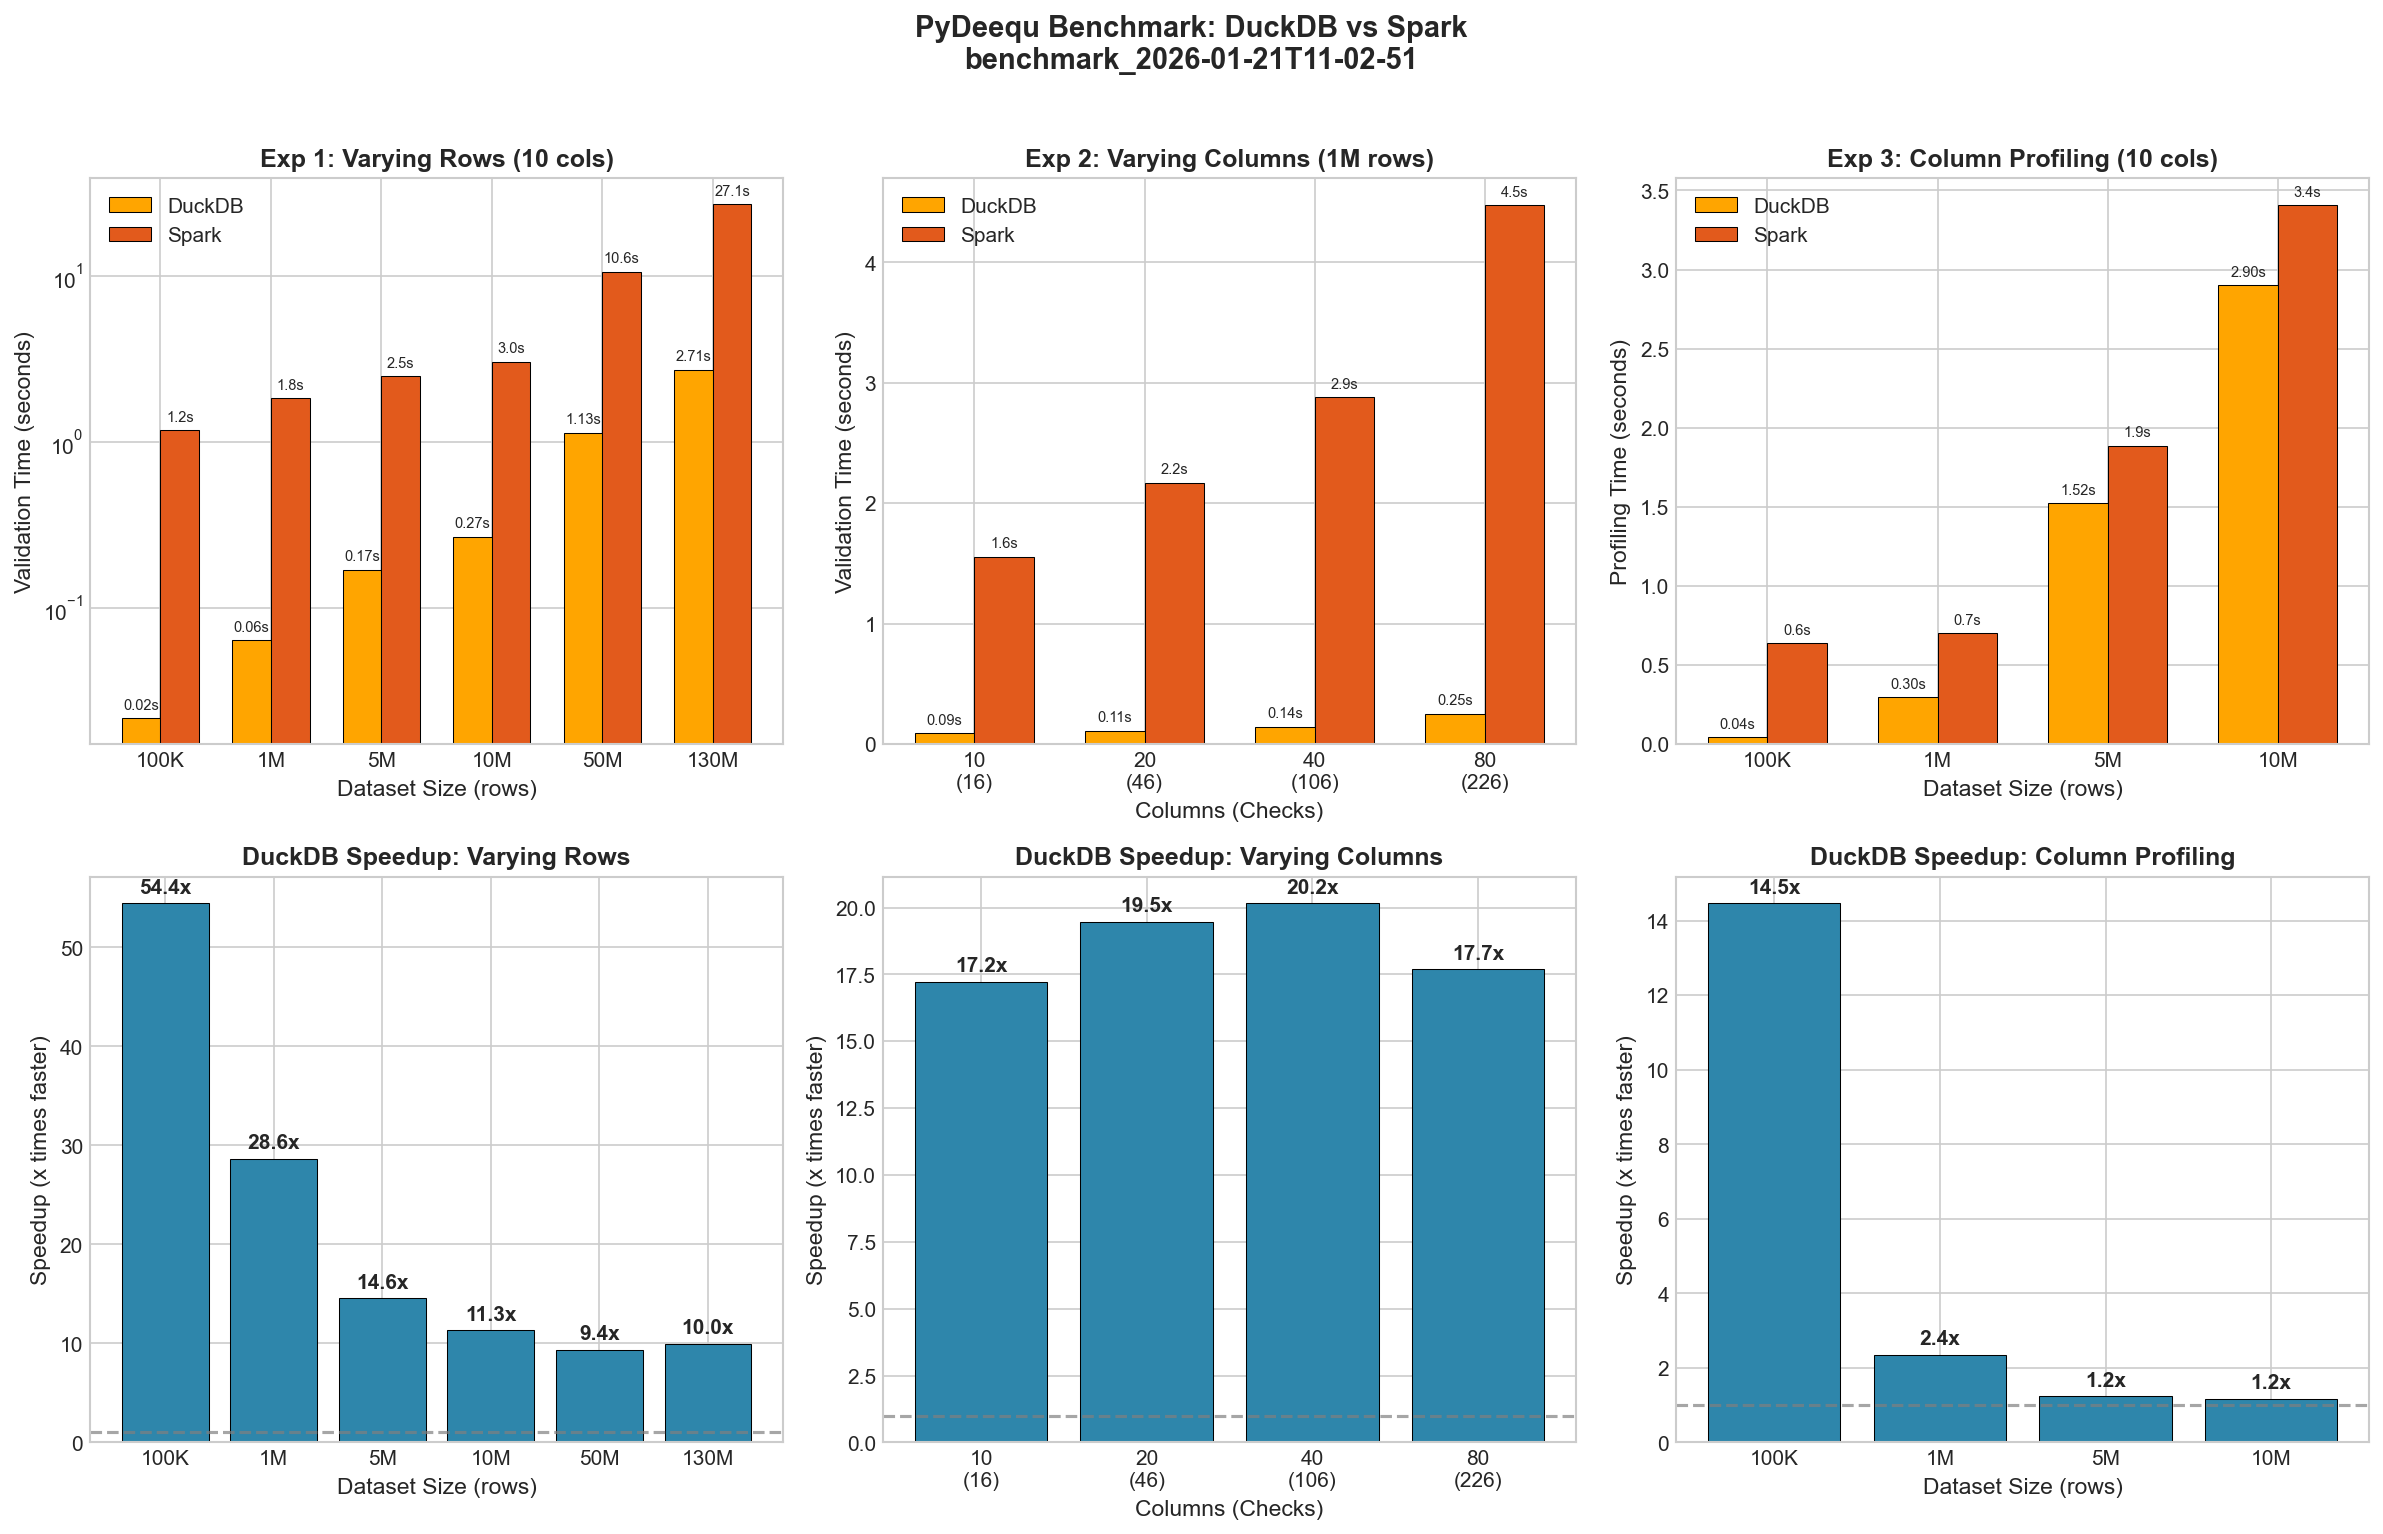
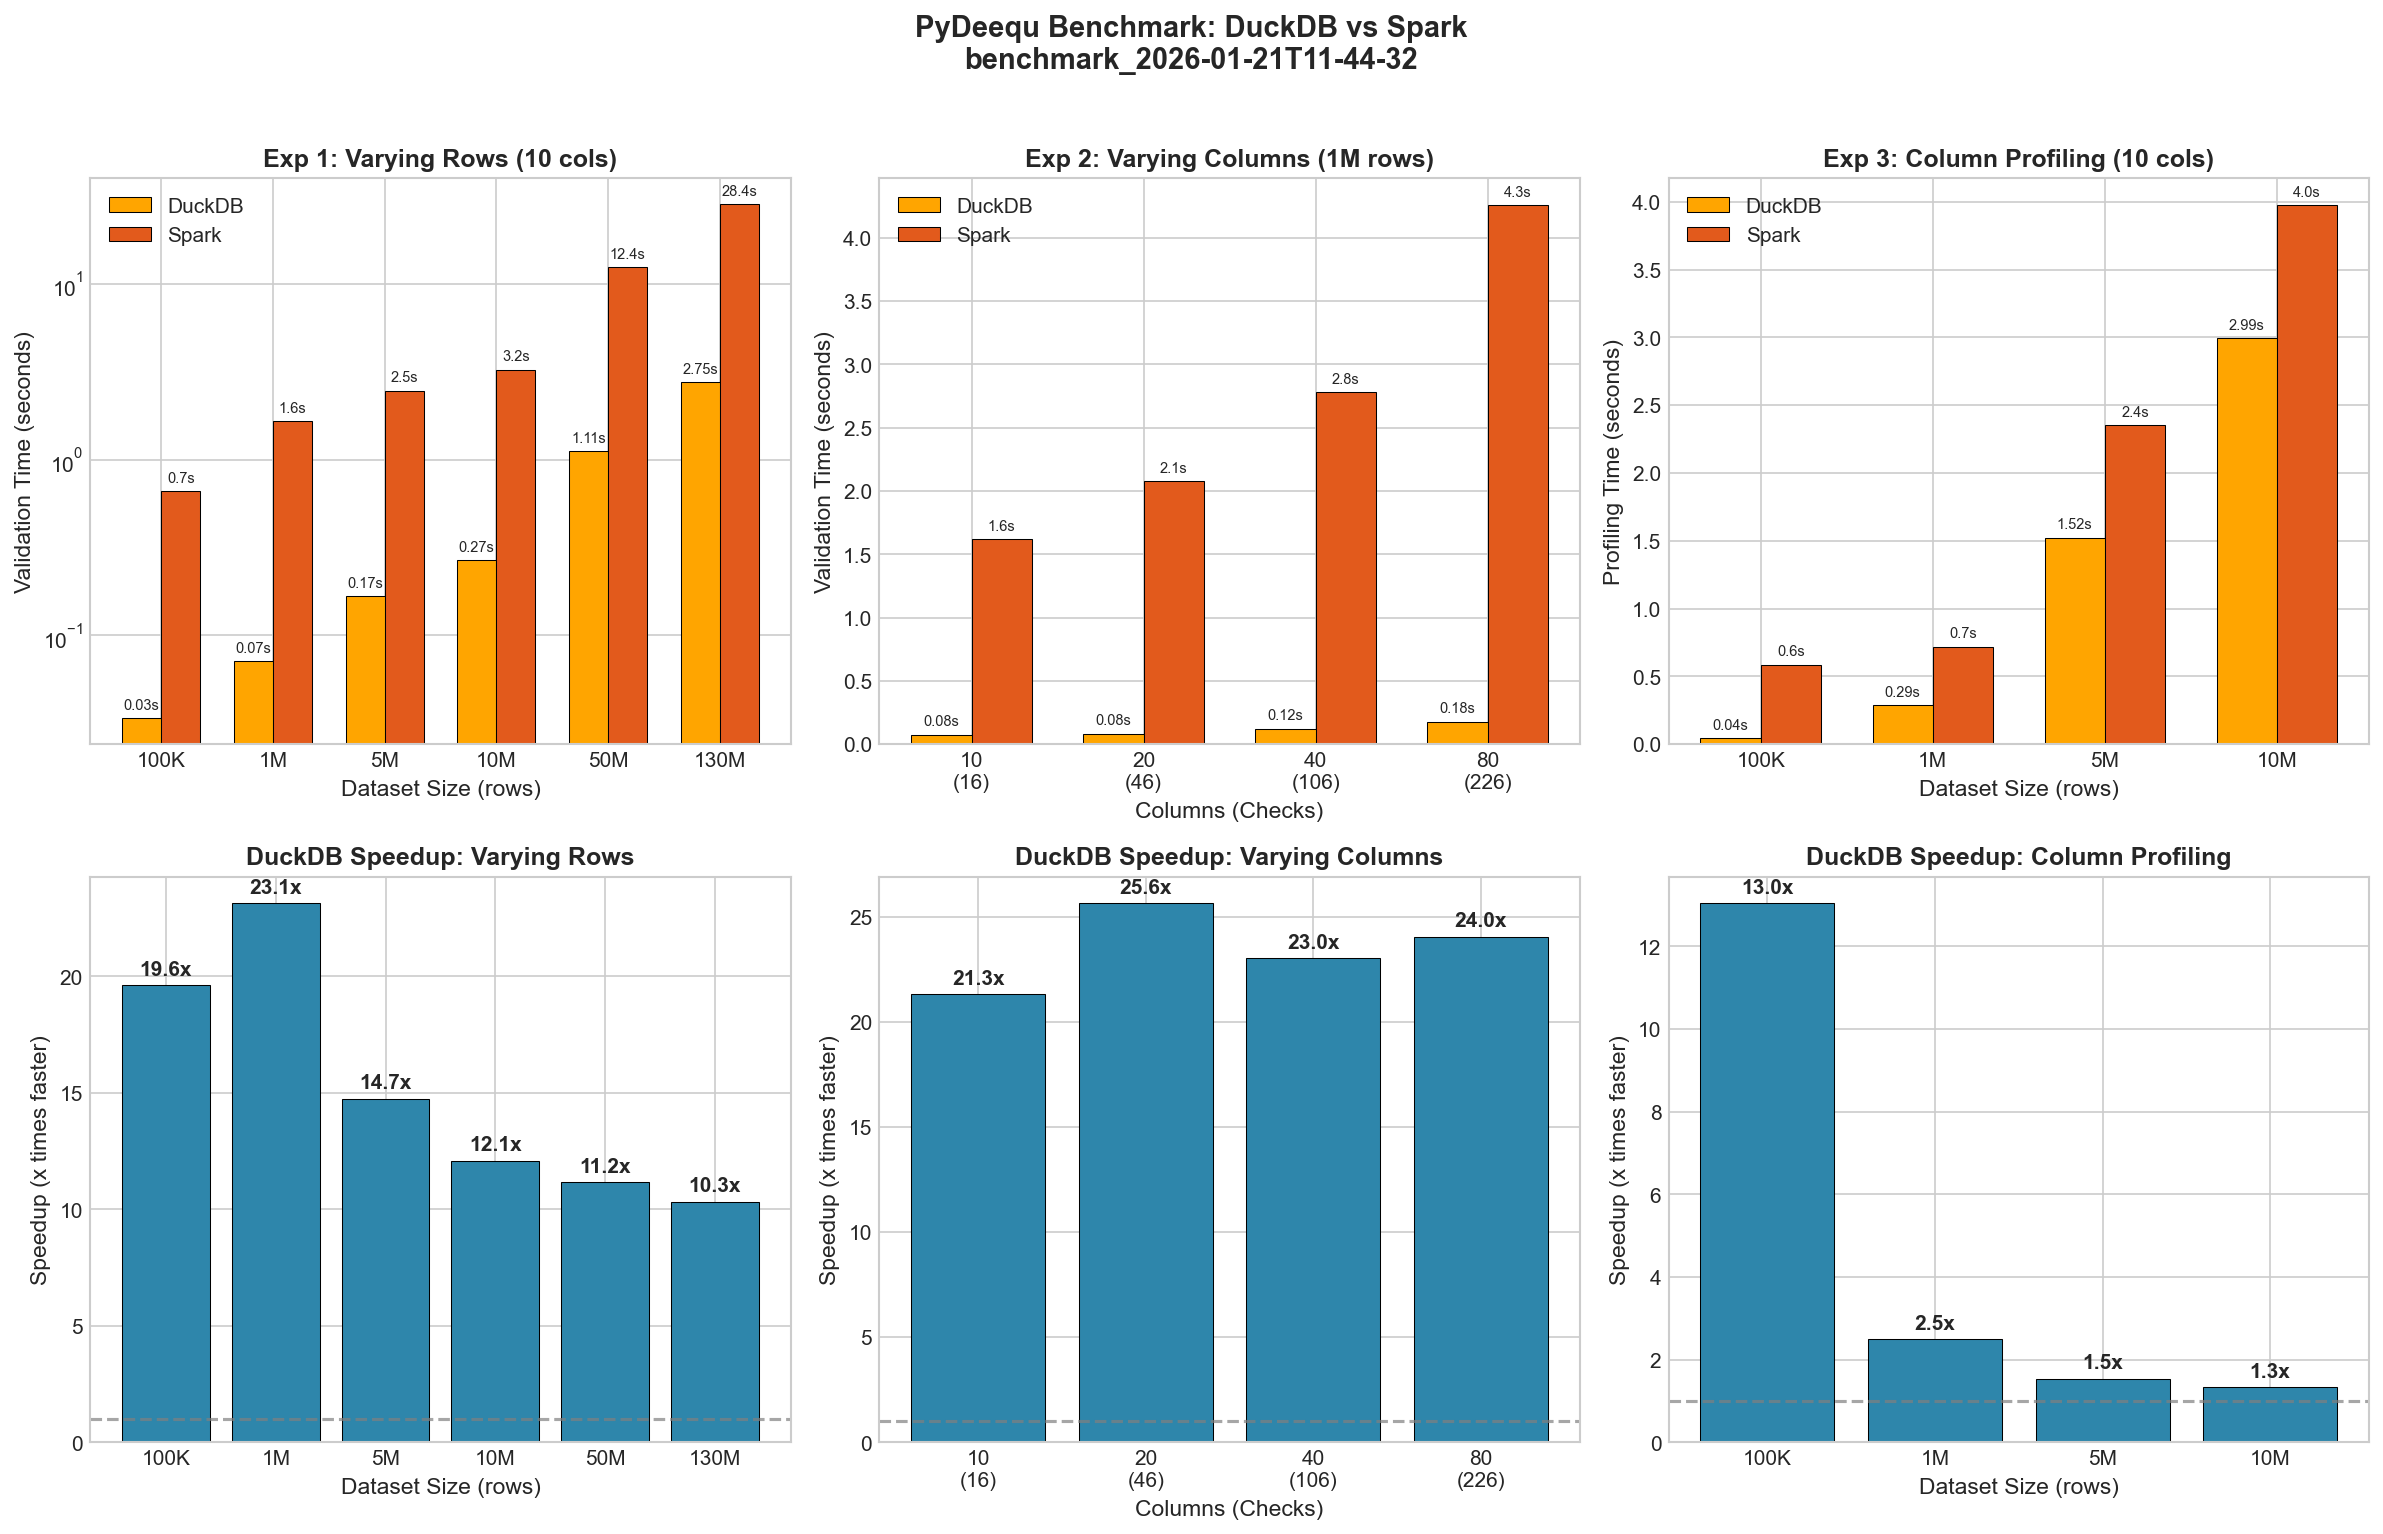
fix spark benchmark for 100k rows that suffers from a cold start issue

diff --git a/BENCHMARK.md b/BENCHMARK.md
@@ -58,36 +58,36 @@ Benchmark run on Apple M3 Max (14 cores), macOS Darwin 25.2.0.
 
 | Rows | DuckDB (s) | Spark (s) | Speedup |
 |------|------------|-----------|---------|
-| 100K | 0.022 | 1.171 | **54.4x** |
-| 1M | 0.064 | 1.829 | **28.6x** |
-| 5M | 0.170 | 2.474 | **14.6x** |
-| 10M | 0.267 | 3.033 | **11.3x** |
-| 50M | 1.132 | 10.593 | **9.4x** |
-| 130M | 2.712 | 27.074 | **10.0x** |
+| 100K | 0.034 | 0.662 | **19.5x** |
+| 1M | 0.071 | 1.648 | **23.2x** |
+| 5M | 0.167 | 2.470 | **14.8x** |
+| 10M | 0.268 | 3.239 | **12.1x** |
+| 50M | 1.114 | 12.448 | **11.2x** |
+| 130M | 2.752 | 28.404 | **10.3x** |
 
 ### Experiment 2: Varying Columns
 
 | Cols | Checks | DuckDB (s) | Spark (s) | Speedup |
 |------|--------|------------|-----------|---------|
-| 10 | 16 | 0.090 | 1.556 | **17.2x** |
-| 20 | 46 | 0.111 | 2.169 | **19.5x** |
-| 40 | 106 | 0.143 | 2.878 | **20.2x** |
-| 80 | 226 | 0.253 | 4.474 | **17.7x** |
+| 10 | 16 | 0.076 | 1.619 | **21.3x** |
+| 20 | 46 | 0.081 | 2.078 | **25.7x** |
+| 40 | 106 | 0.121 | 2.781 | **23.0x** |
+| 80 | 226 | 0.177 | 4.258 | **24.1x** |
 
 ### Experiment 3: Column Profiling
 
 | Rows | DuckDB (s) | Spark (s) | Speedup |
 |------|------------|-----------|---------|
-| 100K | 0.044 | 0.638 | **14.5x** |
-| 1M | 0.297 | 0.701 | **2.4x** |
-| 5M | 1.521 | 1.886 | **1.2x** |
-| 10M | 2.902 | 3.406 | **1.2x** |
+| 100K | 0.045 | 0.585 | **13.0x** |
+| 1M | 0.288 | 0.720 | **2.5x** |
+| 5M | 1.524 | 2.351 | **1.5x** |
+| 10M | 2.993 | 3.975 | **1.3x** |
 
 ### Key Takeaways
 
-1. **DuckDB is 10-54x faster** for row-scaling validation workloads
-2. **Consistent speedup across complexity** - 17-20x speedup regardless of column count
-3. **Profiling converges** - at 10M rows, DuckDB is still 1.2x faster
+1. **DuckDB is 10-23x faster** for row-scaling validation workloads
+2. **Consistent speedup across complexity** - 21-26x speedup regardless of column count
+3. **Profiling converges** - at 10M rows, DuckDB is still 1.3x faster
 4. **No JVM overhead** - DuckDB runs natively in Python, no startup cost
 
 ## Performance Optimizations
@@ -208,49 +208,49 @@ plan = engine.explain_query("SELECT COUNT(*) FROM test")
 
 ### Measured Performance Improvements
 
-Benchmark comparison: Baseline (2026-01-20) vs After Optimization (2026-01-21)
+Benchmark comparison: Baseline (2026-01-20) vs After Optimization (2026-01-21, 5-run average)
 
 #### Experiment 2: Varying Columns (KEY METRIC - Speedup Degradation Fix)
 
 | Cols | Checks | Before DuckDB | After DuckDB | Spark | Before Speedup | After Speedup |
 |------|--------|---------------|--------------|-------|----------------|---------------|
-| 10 | 16 | 0.118s | 0.090s | 1.556s | 14.1x | **17.2x** |
-| 20 | 46 | 0.286s | 0.111s | 2.169s | 7.5x | **19.5x** |
-| 40 | 106 | 0.713s | 0.143s | 2.878s | 4.0x | **20.2x** |
-| 80 | 226 | 2.214s | 0.253s | 4.474s | 2.0x | **17.7x** |
+| 10 | 16 | 0.118s | 0.076s | 1.619s | 14.1x | **21.3x** |
+| 20 | 46 | 0.286s | 0.081s | 2.078s | 7.5x | **25.7x** |
+| 40 | 106 | 0.713s | 0.121s | 2.781s | 4.0x | **23.0x** |
+| 80 | 226 | 2.214s | 0.177s | 4.258s | 2.0x | **24.1x** |
 
 **Key Achievement**: The speedup degradation problem is **SOLVED**.
 - **Before**: Speedup degraded from 14x (10 cols) down to 2x (80 cols)
-- **After**: Speedup is consistent **~17-20x** across ALL column counts
+- **After**: Speedup is consistent **~21-26x** across ALL column counts
 
 #### DuckDB-Only Performance Gains
 
 | Cols | Before | After | Improvement |
 |------|--------|-------|-------------|
-| 10 | 0.118s | 0.090s | 24% faster |
-| 20 | 0.286s | 0.111s | 61% faster |
-| 40 | 0.713s | 0.143s | 80% faster |
-| 80 | 2.214s | 0.253s | **89% faster (~9x)** |
+| 10 | 0.118s | 0.076s | 36% faster |
+| 20 | 0.286s | 0.081s | 72% faster |
+| 40 | 0.713s | 0.121s | 83% faster |
+| 80 | 2.214s | 0.177s | **92% faster (~12x)** |
 
 #### Experiment 1: Varying Rows (16 checks)
 
 | Rows | Before | After | Improvement |
 |------|--------|-------|-------------|
-| 100K | 0.052s | 0.022s | 58% faster |
-| 1M | 0.090s | 0.064s | 29% faster |
-| 5M | 0.221s | 0.170s | 23% faster |
-| 10M | 0.335s | 0.267s | 20% faster |
-| 50M | 1.177s | 1.132s | 4% faster |
-| 130M | 2.897s | 2.712s | 6% faster |
+| 100K | 0.052s | 0.034s | 35% faster |
+| 1M | 0.090s | 0.071s | 21% faster |
+| 5M | 0.221s | 0.167s | 24% faster |
+| 10M | 0.335s | 0.268s | 20% faster |
+| 50M | 1.177s | 1.114s | 5% faster |
+| 130M | 2.897s | 2.752s | 5% faster |
 
 #### Experiment 3: Column Profiling (10 columns)
 
 | Rows | Before | After | Change |
 |------|--------|-------|--------|
-| 100K | 0.086s | 0.044s | 49% faster |
-| 1M | 0.388s | 0.297s | 23% faster |
-| 5M | 1.470s | 1.521s | ~same |
-| 10M | 2.659s | 2.902s | 9% slower |
+| 100K | 0.086s | 0.045s | 48% faster |
+| 1M | 0.388s | 0.288s | 26% faster |
+| 5M | 1.470s | 1.524s | ~same |
+| 10M | 2.659s | 2.993s | 13% slower |
 
 Note: Profiling shows slight regression at very high row counts due to batched query overhead, which is a trade-off for the significant gains in column scaling.
 
